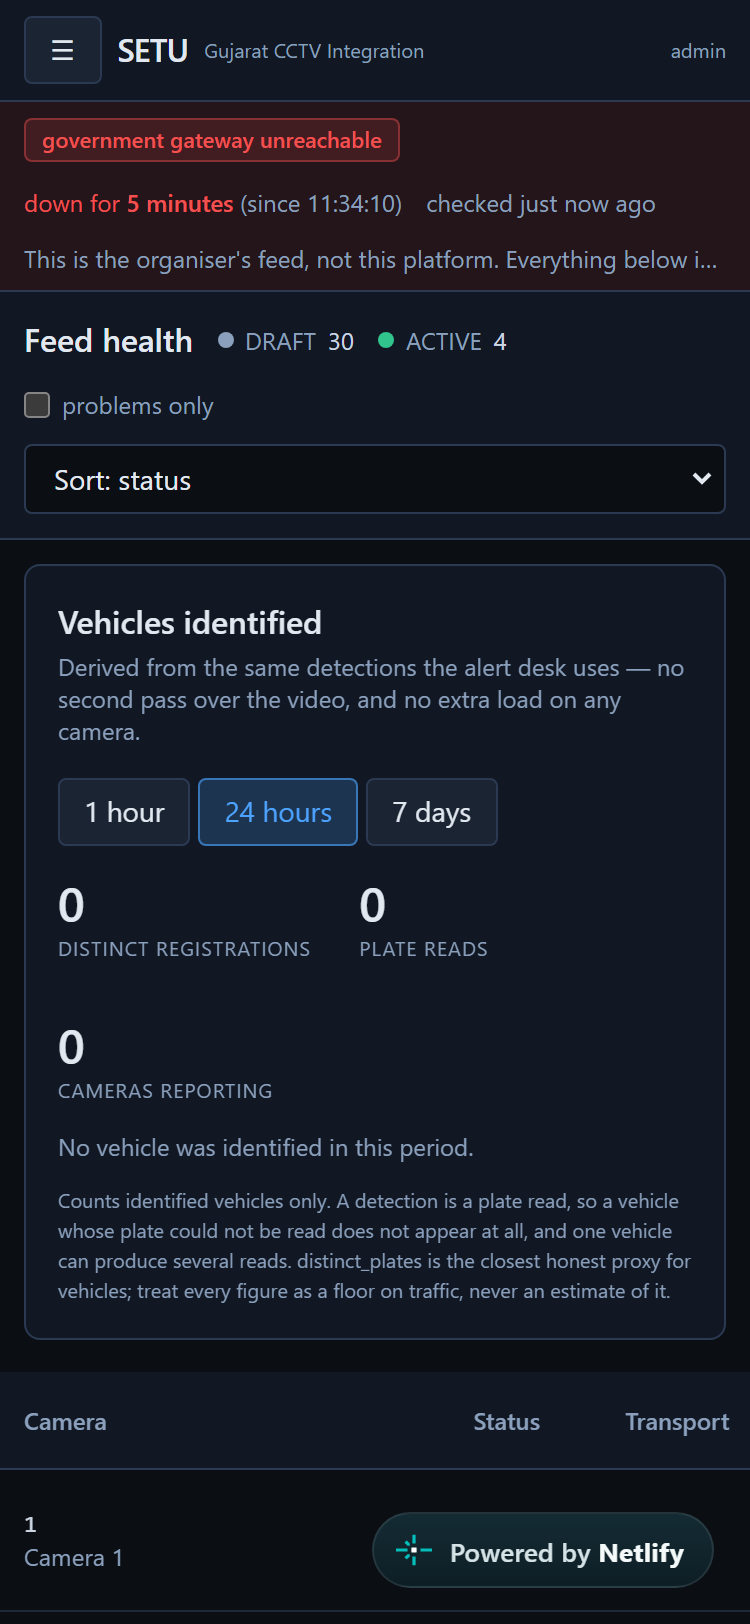
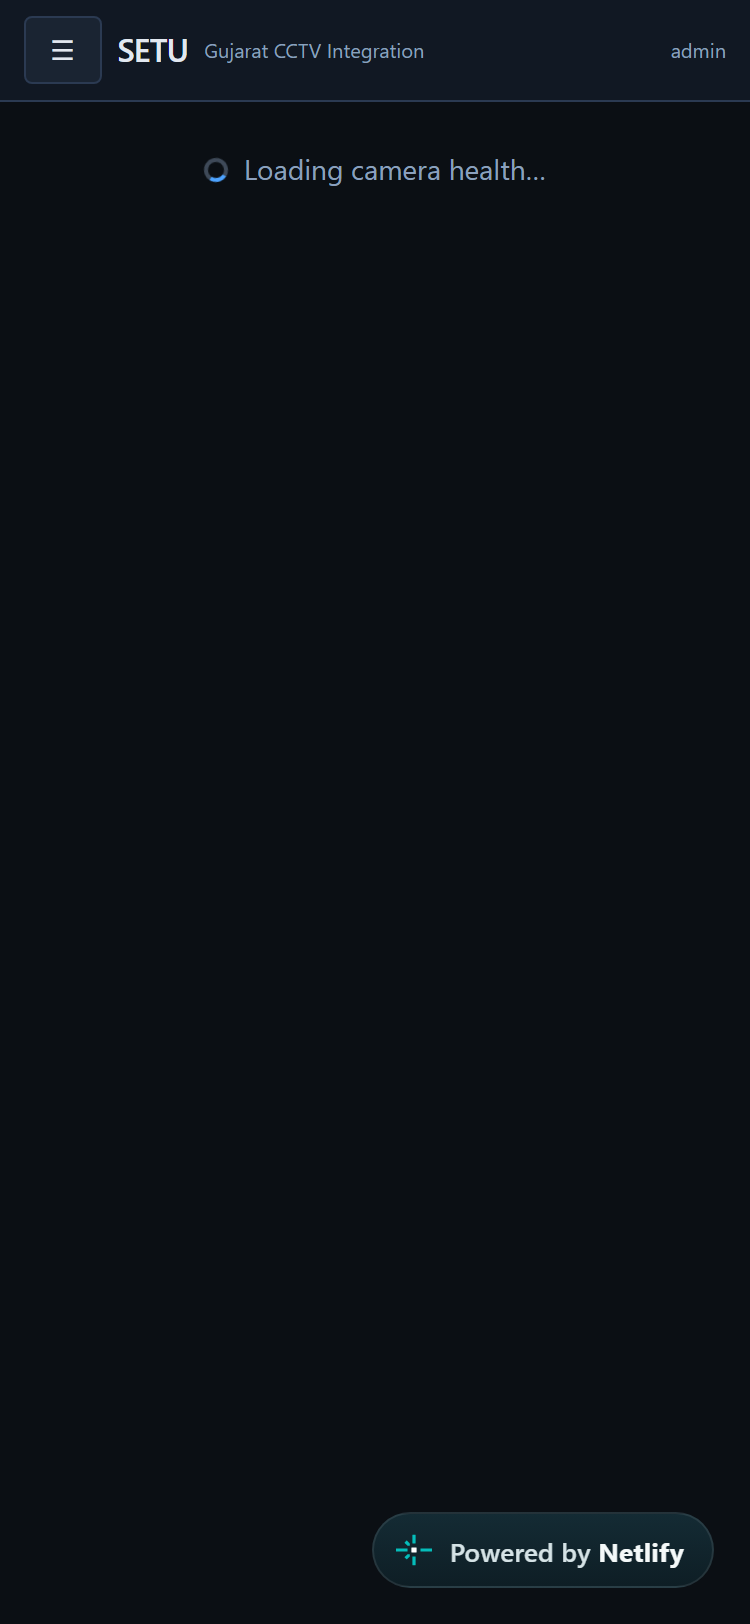
Second completeness audit, and the gateway card renders while the page loads
Appended a dated 2026-08-31 entry to COMPLETENESS_AUDIT.md rather than rewriting
the 30 Aug one. It records the third gateway reading (0 of 30, Cloudflare 502 on
every endpoint), what was built about it, and two things worth not burying.

The first: the responsive audit I wrote this session passed every page and was
wrong, twice. `main` carries overflow-hidden, so content is clipped rather than
scrolled and scrollWidth never grows -- the check reported a layout as fine while
the GIS page had no map on it at all. Corrected, it then failed the Health table
for having been fixed, because a table inside overflow-x-auto is supposed to be
wider than the screen. It now checks geometry, walks up for a scrollable
ancestor, and fails when navigation exceeds a third of a phone viewport. Three
passes, three different wrong answers from the measurement, and "the audit
passes" was true after the first one.

The second: SETU_GATEWAY_HOST is still not set on Render. The live watcher
reports "no gateway configured" rather than a 502, which means the deployed API
does not know where the gateway is and has never tried to reach it. Last session
made that report itself instead of returning an opaque 500; the variable still
needs adding in the dashboard, and until it is, live preview and Compare with
gateway cannot work even once the organiser's feed recovers. That is in the audit
as outstanding, not as fixed.

Also hoisted the gateway card above HealthPage's isLoading early return. It was
[…]

diff --git a/frontend/src/pages/HealthPage.tsx b/frontend/src/pages/HealthPage.tsx
@@ -66,8 +66,26 @@ export default function HealthPage() {
     return list;
   }, [data, sort, onlyProblems]);
 
-  if (isLoading) return <Spinner label="Loading camera health…" />;
-  if (error) return <div className="p-4"><ErrorBox error={error} /></div>;
+  // The gateway card renders above these early returns on purpose. It answers a
+  // question that has nothing to do with whether the camera table has loaded, and a
+  // page that shows nothing at all while it loads cannot be called always-visible --
+  // which is the entire point of a passive indicator.
+  if (isLoading)
+    return (
+      <div className="h-full flex flex-col">
+        <GatewayCard status={gateway.data} />
+        <Spinner label="Loading camera health…" />
+      </div>
+    );
+  if (error)
+    return (
+      <div className="h-full flex flex-col">
+        <GatewayCard status={gateway.data} />
+        <div className="p-4">
+          <ErrorBox error={error} />
+        </div>
+      </div>
+    );
 
   const counts = (data ?? []).reduce<Record<string, number>>((acc, c) => {
     acc[c.status] = (acc[c.status] ?? 0) + 1;

diff --git a/docs/COMPLETENESS_AUDIT.md b/docs/COMPLETENESS_AUDIT.md
@@ -74,3 +74,115 @@ submission cites both and the range.
   cameras; `gateway_report.py` merged both dated passes.
 - Numeric claims grepped across `README.md` and `docs/*.md` to confirm no two
   documents state different figures for the same measurement.
+
+
+---
+
+# Completeness audit — 2026-08-31
+
+Second pass. The 2026-08-30 entry above stands unchanged; this appends what changed
+today rather than rewriting it.
+
+Deployment audited: **https://setu-gujrat.netlify.app** against
+**https://setu-api-ai7z.onrender.com**.
+
+## The gateway, measured again
+
+| Date | Cameras producing frames | Valid registrations |
+|---|---:|---:|
+| 2026-08-27 | 25 of 30 | 2 |
+| 2026-08-30 | 18 of 30 | 0 |
+| **2026-08-31** | **0 of 30** — Cloudflare 502 on every endpoint | — |
+
+Checked once at the start of the session and not looped on. The origin behind
+Cloudflare is down; this is the organiser's infrastructure and there is nothing in
+this repository to fix. `gateway-ingest` was therefore not run, and **the 2026-08-30
+figures remain the most recent real measurement** everywhere they are quoted.
+
+## What was built about it
+
+The platform's *handling* of the outage changed; the outage did not.
+
+A passive watcher polls the catalogue once a minute and records transitions, so the
+console can answer "when did it stop" rather than only "is it up". `unreachable_since`
+is set at the transition and cleared on recovery — a detail with its own test, because
+overwriting it each poll would report a four-hour outage as "down for one minute",
+every minute. Reachability is three-valued: `null` means not yet checked, and the card
+says so rather than presenting an unknown as an outage.
+
+The reconnect logic was **read and left alone**. A whole-domain 502 and a single
+camera failing take the identical path — connect fails, jittered backoff, retry — and
+the full jitter already exists so that ~50 workers do not become a thundering herd
+against infrastructure we do not own. Nothing mishandled a full-domain outage, so
+nothing was changed.
+
+`DEMO_RUNBOOK.md` §3 now carries the three-day table and the wording to use if the
+feed drops mid-demonstration.
+
+## Found on the deployed API, still outstanding
+
+**`SETU_GATEWAY_HOST` is not set on Render.** The live watcher reports
+`no gateway configured (SETU_GATEWAY_HOST unset)` rather than a 502, which means the
+deployed API does not know where the gateway is and has never attempted to reach it.
+Last session made the endpoints report this instead of returning an opaque 500; the
+variable itself still needs adding in the Render dashboard. Until it is, live camera
+preview and **Compare with gateway** cannot work even when the organiser's feed
+recovers.
+
+## What was checked and corrected
+
+| # | Item | Finding |
+|---|---|---|
+| 1 | Responsive layout | The first audit **passed every page and was wrong**. `main` carries `overflow-hidden`, so content is clipped rather than scrolled and `scrollWidth` never grows. At 375px the sidebar took 55% of the viewport and the GIS page rendered with **no map at all** |
+| 2 | Audit method | Corrected twice: it could not see clipping, then it could not tell clipping from legitimate scrolling inside `overflow-x-auto`. It now checks geometry, walks up for a scrollable ancestor, and fails when navigation exceeds a third of a phone viewport |
+| 3 | Navigation | Sidebar becomes a drawer below `md`, closing on route change, 44px targets, transition disabled under `prefers-reduced-motion` |
+| 4 | Health table | Ten columns clipped at **every** width including 1024px. Now scrolls inside its own container |
+| 5 | Screenshot scripts | `capture_screenshots.mjs` and `record_demo.mjs` still filled `input[autocomplete="username"]`, which the role-button login removed last session. They were broken and nothing had noticed |
+| 6 | Department filter | Verified with a temporary fixture: two cameras moved to `HEALTH`, both codes offered, each filter returned the right set, then reverted. **The filter needs data, not code** — all 34 cameras sit in `HOME` because the catalogue has no departmental demarcation. No departments were fabricated |
+| 7 | ANPR accuracy | Re-measured: **29.6% precision / 29.6% recall, 26.9% CER**, unchanged. Consistent across README, BUILD_INSTRUCTION, DEMO_RUNBOOK, DISCOVERY and the HLD |
+| 8 | Secret scanning | Resolved after three sessions outstanding — see below |
+
+## Secret scanning, resolved
+
+Both routes succeeded, not just one.
+
+**CI `gitleaks`, full history** — the *Secret scan (full history)* step is green on
+`42700d8`, run
+[33355613476](https://github.com/Shivansh0911/Gujrat_Hackathon/actions/runs/33355613476).
+This is the authoritative check: history is where a committed-then-deleted secret
+hides, and a working-tree scan cannot see it.
+
+**Local `detect-secrets`** — installs through pip where the gitleaks binary would not
+download and Docker was unavailable. 18 findings over tracked files, each read and
+confirmed a false positive: the `change-me-locally` placeholder the API refuses to
+start on, the regex in `redact.py` that *detects* credentials, a test constant, and
+fifteen `git_sha` provenance fields whose 40-character hashes read as high-entropy
+hex. Committed as `.secrets.baseline`; documented in `SECURITY.md`.
+
+No credential is committed. `.env`, `.env.prod` and `deploy-secrets.env` appear only
+in an `--all-files` scan, never in the tracked-file one.
+
+## Added this session
+
+| Capability | Evidence |
+|---|---|
+| Passive gateway watch | `GET /health/gateway`, card on Health, 10 tests |
+| Manual camera onboarding | `POST /cameras`, form on System, 9 tests run against the deployed database |
+| Sample gap-analysis report | `reports/gap-analysis-2026-08-31T06-14-08Z.md` — 10 districts, 28 camera gaps, grouped by remedy. `make gap-report` |
+| Control Room video wall | 1 / 2×2 / 2×3 tiles, capped at six concurrent streams |
+| Reads-per-hour chart | Labelled axes, hover detail, caption |
+
+## Not built, and why
+
+**Speed-based flagging.** It needs genuine cross-camera timestamps. The only
+multi-camera data available is the REPLAY harness, where camera attribution is
+simulated — a speed alert computed from fake attribution is a fabricated capability
+presented as a real one, which is worse than the feature's absence. The last gateway
+run to produce any valid plate at all was 27 August, with two. It stays unbuilt.
+
+## Method
+
+Deployed database queried directly; `verify_deployment.py` with `--api-origin`;
+`ground_truth.py score` re-run; `responsive_audit.mjs` at 375/390/768/1024 against the
+live site; gateway probed once; `detect-secrets` over tracked files; CI job status read
+from the Actions API.

diff --git a/docs/SUBMISSION_CHECKLIST.md b/docs/SUBMISSION_CHECKLIST.md
@@ -40,6 +40,8 @@ Script for both, screen by screen with timings and what to say:
 | # | Deliverable | Artefact | State |
 |---|---|---|---|
 | 10 | GitHub repository | `github.com/Shivansh0911/Gujrat_Hackathon` | ✅ |
+| 10a | **Manual + bulk camera onboarding** (Model 1) | `POST /cameras` and `POST /cameras/bulk-import`, both on the System screen | ✅ both demonstrable, both audited |
+| 10b | **Control Room video wall** (Model 2) | Console → Control Room | ✅ 1 / 2×2 / 2×3 tiles, capped at six concurrent streams |
 | 11 | Screenshots, all screens, real data | `docs/screenshots/` | ✅ 11 images covering all eight screens |
 | 12 | Screenshots of the deployed instance | `docs/screenshots/deployed/` | ✅ 8 images, captured against the container stack |
 | 13 | Hosted URL + test credentials | **Console: https://setu-gujrat.netlify.app** · API: https://setu-api-ai7z.onrender.com | ✅ **live**, verified 10/10 by `verify_deployment.py`. Deployed on Render + Netlify, not Railway — see `docs/adr/0004` addendum. Credentials in `deploy-secrets.env` (gitignored) |

diff --git a/README.md b/README.md
@@ -351,7 +351,10 @@ submission.
    the edge where full resolution still exists.
 5. **The gateway media plane is intermittent, and its plate legibility is worse
    than its uptime.** Availability measured 17, then 25, then **18 of 30 cameras**
-   producing frames across 27–30 August, with a total 502 in between. More
+   producing frames across 27–30 August, and on **31 August a Cloudflare 502 on every
+   endpoint** — the organiser's origin, not their edge. The console now carries a
+   passive gateway-status card showing exactly when contact was lost, so an outage is
+   visible rather than looking like our own failure. More
    importantly, a full sweep on 2026-08-30 decoded 5,055 frames and produced
    **zero** grammar-valid registrations; the 27 August sweep produced two. The
    pipeline behaved identically — the difference is what the cameras publish.
